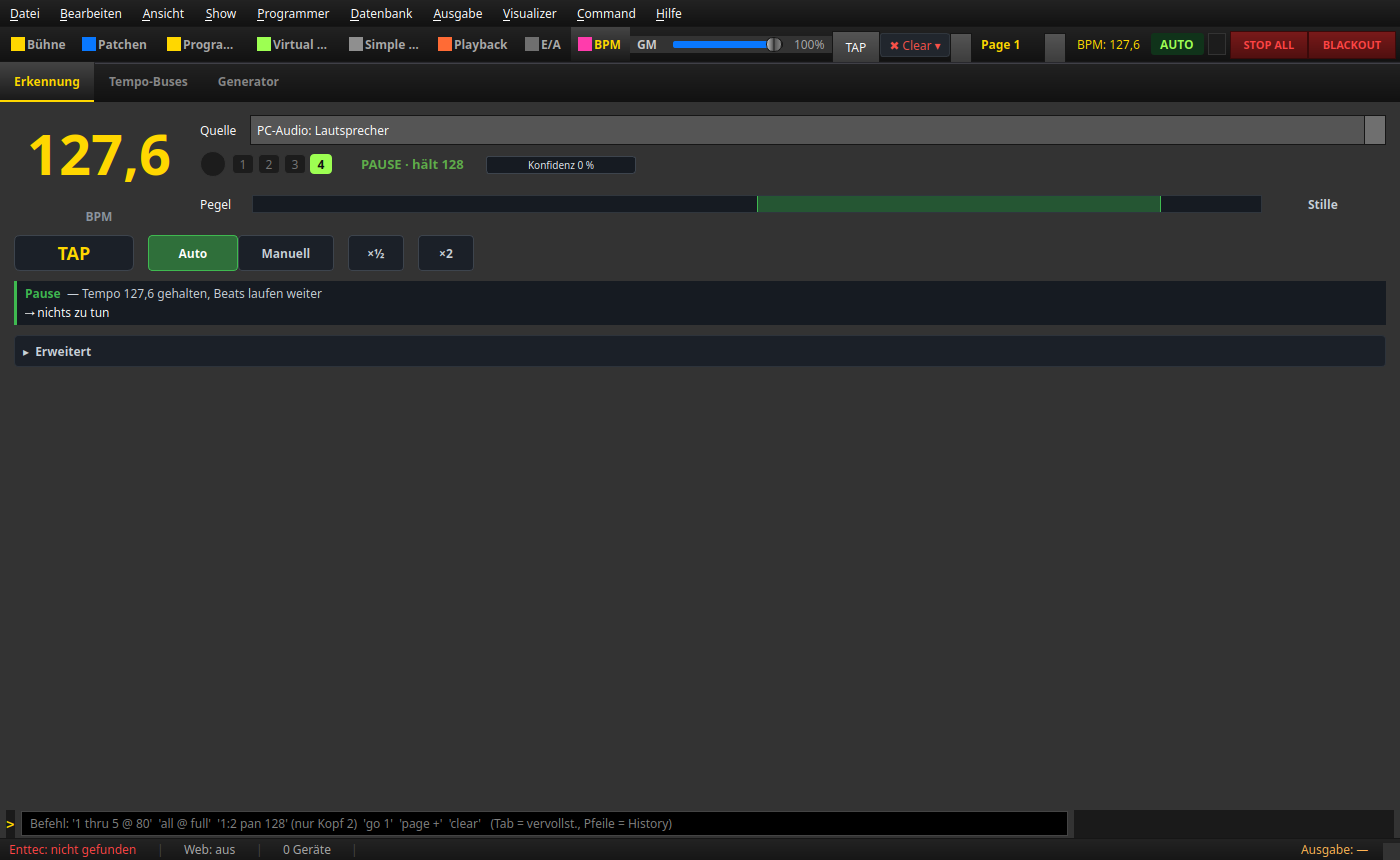
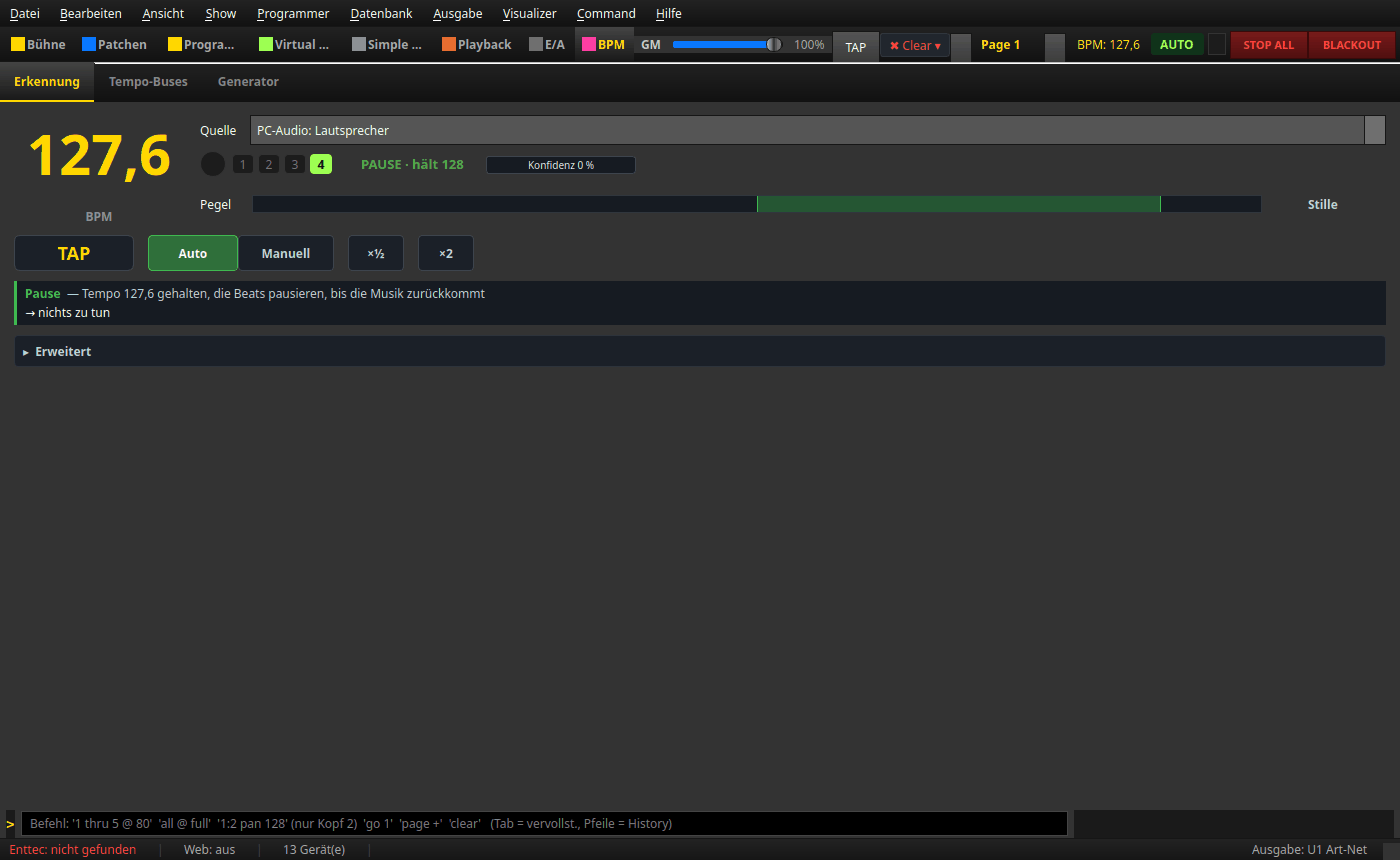
docs(bpm): BPM-Anleitung an den Code angeglichen, Bild Pause neu (DOC-18)
Stille-Zeit 10 s (SIL_RELEASE_S), KEIN SIGNAL laesst die letzte Zahl
stehen (Beats bleiben aus), Felder der Diagnose-JSON vollstaendig,
Sicherungsdatei .v1.bak/.v2.bak je Herkunft, erkennung_pause.png mit der
neuen Pause-Zeile neu aufgenommen.

diff --git a/docs/anleitung_bpm_manager/ANLEITUNG_BPM_MANAGER.md b/docs/anleitung_bpm_manager/ANLEITUNG_BPM_MANAGER.md
@@ -40,7 +40,7 @@ Von oben links nach unten:
 | # | Element | Im Bild | Was es ist |
 |---|---|---|---|
 | 1 | **Sub-Tabs** | Erkennung · Tempo-Buses · Generator | Erkennung ist gelb unterstrichen = aktiv. |
-| 2 | **Große BPM-Zahl** | „127,6" in Gelb, darunter „BPM" | Das gültige Tempo. **Gelb** = Auto, **grün** = Manuell, grau **--** = kein Tempo. |
+| 2 | **Große BPM-Zahl** | „127,6" in Gelb, darunter „BPM" | Das gültige Tempo. **Gelb** = Auto, **grün** = Manuell, grau **--** = noch kein Tempo (z. B. direkt nach dem Start). Fällt die Erkennung auf **KEIN SIGNAL** zurück, bleibt die zuletzt gültige Zahl stehen. |
 | 3 | **Quelle** | „PC-Audio: Lautsprecher" | Woher das Tempo kommt (Abschnitt 2). **Bedienelement.** |
 | 4 | **Beat-Punkt + Taktzellen** | gelber Kreis, Zellen 1 · 2 · 3 · 4 | Blinken im Takt mit; die **1** (Downbeat) leuchtet gold. Wie viele Zellen: *Beats/Takt* in Erweitert. |
 | 5 | **Zustandswort** | „EINGERASTET" in Grün | Was die Erkennung gerade tut (Abschnitt 3.1). |
@@ -122,15 +122,18 @@ ist zu tun.
 
 **Wenn die Musik kurz aussetzt** (Break, Ansage, Liedwechsel):
 
-![Pause: BPM 127,6 bleibt stehen, Taktzelle 4 leuchtet, Zustandswort PAUSE · hält 128, Konfidenz 0 %, Pegel Stille, grüne Statuszeile „Pause — Tempo 127,6 gehalten, Beats laufen weiter", darunter „→ nichts zu tun"](img/erkennung_pause.png)
+![Pause: BPM 127,6 bleibt stehen, Taktzelle 4 leuchtet, Zustandswort PAUSE · hält 128, Konfidenz 0 %, Pegel Stille, grüne Statuszeile „Pause — Tempo 127,6 gehalten, die Beats pausieren, bis die Musik zurückkommt", darunter „→ nichts zu tun"](img/erkennung_pause.png)
 
 Das Tempo bleibt stehen (**PAUSE · hält 128**), Beats und Taktzellen pausieren, die
 Statuszeile ist **grün**: „**Pause** — Tempo 127,6 gehalten, die Beats pausieren, bis die
-Musik zurückkommt — → nichts zu tun". (Das Bild oben zeigt noch die frühere Formulierung.)
+Musik zurückkommt — → nichts zu tun".
 Setzt die Musik wieder ein, laufen die Beats im gehaltenen Tempo weiter. Bleibt es
-länger als etwa **10–15 Sekunden** still, lässt sie los und zeigt **KEIN SIGNAL** — der
-nächste Einsatz rastet frisch ein. Soll das Tempo auch über lange Pausen stehen bleiben:
-**Manuell** oder **Tempo einfrieren** (Erweitert).
+**10 Sekunden** still, vergisst die Erkennung den Takt und zeigt **KEIN SIGNAL**. Die große
+Zahl bleibt dabei auf dem letzten Tempo stehen, die Beats bleiben aus. Der nächste Einsatz
+wird frisch gesucht und eingerastet; erst dann kommen wieder Beats, ggf. mit neuem Tempo.
+Sollen die Beats auch durch lange Pausen im alten Tempo weiterlaufen: **Manuell**. Soll nur
+die Zahl beim Wiedereinsatz nicht auf ein neues Tempo springen: **Tempo einfrieren**
+(Erweitert).
 
 ### 3.2 Pegel und Chips
 
@@ -379,9 +382,29 @@ passende Abhilfe nennt — oder wenn sie „Aufnahme machen und schicken" vorsch
 * Linux: `~/.local/share/LightOS/audio_diag/`
 * Windows: `%APPDATA%\LightOS\audio_diag\`
 
-Es sind immer **zwei Dateien mit gleichem Namen**: die **WAV** (der Ton) und eine **JSON**
-mit den Messwerten (Gerät, Pegel, Spitze, Clips, Brumm, Version, Zeit — ohne Benutzername
-und ohne Pfade). Schick **beide**.
+Es sind immer **zwei Dateien mit gleichem Namen**: die **WAV** (der Ton, 16 bit mono) und
+eine **JSON** mit den Messwerten. Schick **beide**. Die JSON enthält:
+
+| Feld | Inhalt |
+|---|---|
+| `version` | Version des JSON-Formats |
+| `zeit_utc` | Startzeit der Aufnahme (UTC) |
+| `dauer_s` / `soll_s` | tatsächliche / geplante Länge in Sekunden |
+| `sample_rate`, `format` | Abtastrate, „WAV PCM 16 bit mono" |
+| `quelle`, `geraet` | Quellart (`loopback` = PC-Audio, `input` = Eingang) und Gerätename |
+| `rms_dbfs`, `peak_dbfs` | mittlerer Pegel und Spitze über die ganze Aufnahme |
+| `clip_samples` | Anzahl übersteuerter Samples |
+| `dc_offset` | Gleichspannungsversatz |
+| `datei` | `audio_diag/<Name>.wav` (nur relativ zum Datenordner) |
+| `plattform` | Betriebssystem (z. B. `win32`, `linux`) |
+| `abgebrochen` | `true`, wenn die Aufnahme vorzeitig endete; dann zusätzlich `grund` |
+| `chunk_ms_p95` | Takt der ankommenden Audioblöcke (95-%-Wert, ms) |
+| `hum_ratio`, `hum_hz` | Brumm-Anteil und -Frequenz (50/60 Hz) |
+| `erkennung` | Zustand der Erkennung am Ende: `zustand`, `bpm`, `konfidenz`, `backlog_ms` |
+| `lightos_version` | LightOS-Version |
+
+Kein Benutzername und kein vollständiger Pfad. Die Felder ab `chunk_ms_p95` fehlen, wenn der
+jeweilige Wert gerade nicht lesbar war.
 
 **Nichts wird automatisch versendet.** Die Aufnahme bleibt auf dem Rechner, bis du sie
 selbst weitergibst. Der Knopf ist grau, wenn gerade keine Audio-Quelle läuft (Aus, OS2L,
@@ -506,12 +529,17 @@ Das Beatgrid eines analysierten Lieds wird mit dem Track in der Show-Playlist ge
 Die Einstellungen tragen eine Versionsnummer; aktuell ist **Version 3**. Beim ersten Start
 mit einer älteren Datei übernimmt LightOS Quelle, Gerät, Modus, Tempo-Bereich, Takt und
 Taktgenau. Werte, die es nicht mehr gibt, werden verworfen und einmal ins Log geschrieben.
-Vorher legt LightOS **einmalig eine Sicherung** der alten Datei an:
-`ui_prefs.json.v2.bak` (bei ganz alten Dateien `ui_prefs.json.v1.bak`).
+Bevor LightOS die Datei zum ersten Mal im neuen Format speichert (sobald du eine
+Einstellung änderst), legt es **einmalig eine Sicherung** der alten Datei an. Ihr Name
+richtet sich nach der Herkunft:
+
+* Datei aus Version 2: `ui_prefs.json.v2.bak`
+* Datei aus Version 1 (ganz alte Stände, ohne Versionsnummer): `ui_prefs.json.v1.bak`.
+  Eine `.v2.bak` entsteht dann nicht.
 
 > **Achtung beim Zurückgehen:** Eine ältere LightOS-Version kann die neue Datei nicht lesen
-> und startet mit Standardwerten. Wer zurück muss, benennt `ui_prefs.json.v2.bak` wieder in
-> `ui_prefs.json` um.
+> und startet mit Standardwerten. Wer zurück muss, benennt die vorhandene Sicherung
+> (`ui_prefs.json.v2.bak` bzw. `ui_prefs.json.v1.bak`) wieder in `ui_prefs.json` um.
 
 ### 8.3 Was es nicht mehr gibt — und womit du es ersetzt
 
